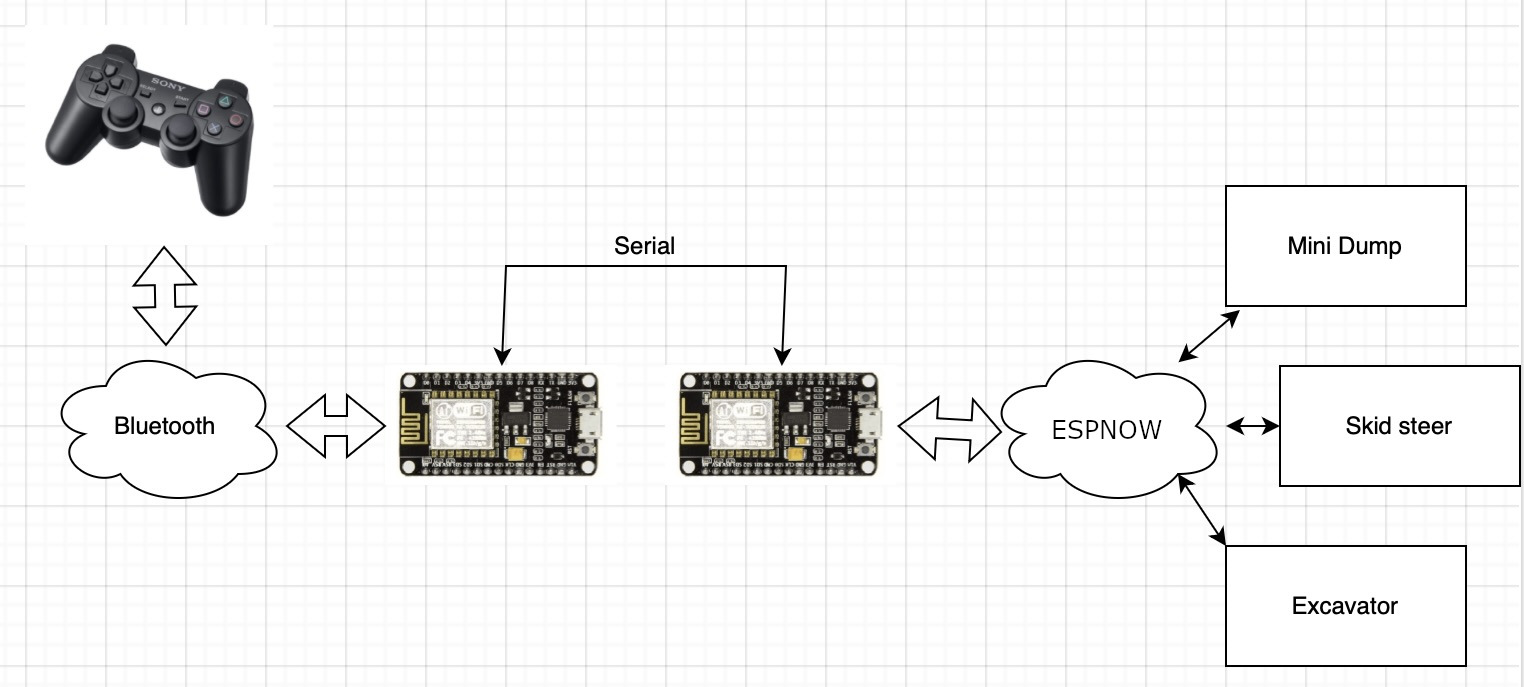
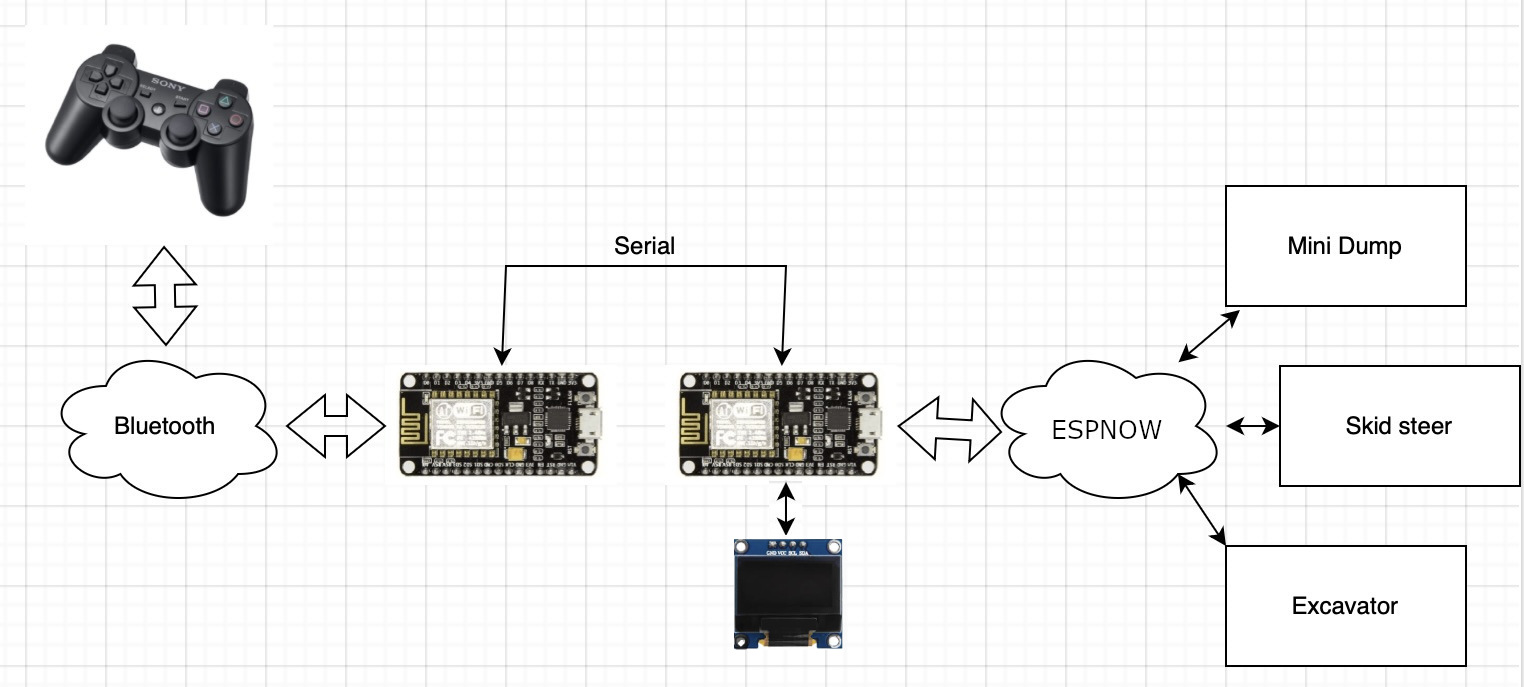
latest changes

Changed region(s): [[0.4626, 0.7031, 0.5551, 0.9476]]

diff --git a/README.md b/README.md
@@ -1,26 +1,77 @@
 # Remote Control Basestation
 
-This project implements a RC base station for the printable RC models like from [ProfessorBoots][GithubProfBoots]. You connect with a PS3 controller to the base station. All models also connect to the base station. The base station will relay all input from the controller via WIFI to the models. You can switch between the models with the select button of the controller. So you dont need multiple controller or re-pair one controller with the model you want control. Simply start the base station connect the controller, start every model you have and play with them.
+A dual-ESP32 base station for RC models, designed to control multiple vehicles from a single -compatible gamepad.
+
+The project uses Bluepad32 for the gamepad and a second ESP32 to broadcast control commands to all vehicles over ESPNOW. The base station tracks which vehicles are online, shows available vehicles on the display, and lets you switch control with a button press. This means you don’t need to re-pair each model when changing which vehicle you want to drive.
 
 ![diagram](Image/Diagram.jpeg)
 
-# Setup Brain MCU
-Wire two Nodemcu like this
-![schematic](Image/Schematic.png)
+## Overview
 
-In the BaseStationBrainPS project you must setup the PS3 controller mac address.
-Upload BaseStationBrainPS to the first Nodemcu and the BaseStationBrainWIFI project to the second Nodemcu. 
-
-# Setup RC vehicle
-
-For every vehicle MiniSkidi, MiniDump and Excavator there is a project which must be compiled and uploaded to the nodemcu of the vehicle. 
-
-# Running
-
-After uploaded every sketch, just switch the vehicle and power up the base station. Connect the PS3 controller and cycle through your vehicles with the select button.
+- `gamepad_controller`: connects the  gamepad and reads input via Bluepad32.
+- `espnow_controller`: receives the gamepad state from the gamepad controller over serial and sends commands to vehicles with ESPNOW.
+- Vehicle projects: `MiniDumpV2`, `MiniSkiddi`, `Excavator`.
 
 
-# Small Demo
-[![Watch the video](https://img.youtube.com/vi/WLLasP6-6oY/hqdefault.jpg)](https://youtu.be/WLLasP6-6oY)
+## Setup / Install / Upload controller firmware
 
-[GithubProfBoots]: https://github.com/ProfBoots
+This project uses PlatformIO. Upload the controller firmware with one of the following environments.
+
+### Setup Base Station
+
+Wire two NodeMCU boards as shown below.
+
+![schematic](Image/SchematicV2.png)
+
+The complete schematic is also available here:
+
+[easyEda Project](https://oshwlab.com/smartandclever/project_vgmjmgea)
+
+> [!WARNING] 
+> I made a prototyp board for the controller. You can find the Gerber Files [here](PCB/Gerber_PCB_RCControlboard_2026-05-25.zip)\
+> This is an early prototyp so use it at your own risk.
+
+### Base station
+
+- `gamepad_controller`: reads the  gamepad using Bluepad32.
+- `espnow_controller`: sends ESPNOW packets to vehicles.
+
+Example upload commands:
+
+```bash
+pio run -e gamepad_controller -t upload
+pio run -e espnow_controller -t upload
+```
+
+### Vehicle firmware
+
+Choose the correct vehicle environment for the model you are building:
+
+- `MiniDumpV2`
+- `MiniSkiddi`
+- `Excavator`
+
+Example upload command:
+
+```bash
+pio run -e MiniDumpV2 -t upload
+```
+
+### Upload notes
+
+- Each environment has `upload_port` configured in `platformio.ini`.
+- Make sure the correct ESP32 board is connected before uploading.
+- If you change the USB serial port, update `upload_port` or provide `-P /dev/ttyUSB0` on the command line.
+
+
+## Running
+
+After uploading the firmware, power up the base station, connect the  controller, and power on the vehicles. Use the select button on the controller board to switch between available vehicles.
+
+## Small Demo
+
+[![Watch the video](https://img.youtube.com/vi/WLLasP6-6oY/hqdefault.jpg)](https://youtu.be/WLLasP6-6oY) (Outdated old demo)
+
+Thanks Professor Boots for these amazing models [GithubProfBoots](https://github.com/ProfBoots)
+
+## TODOs
